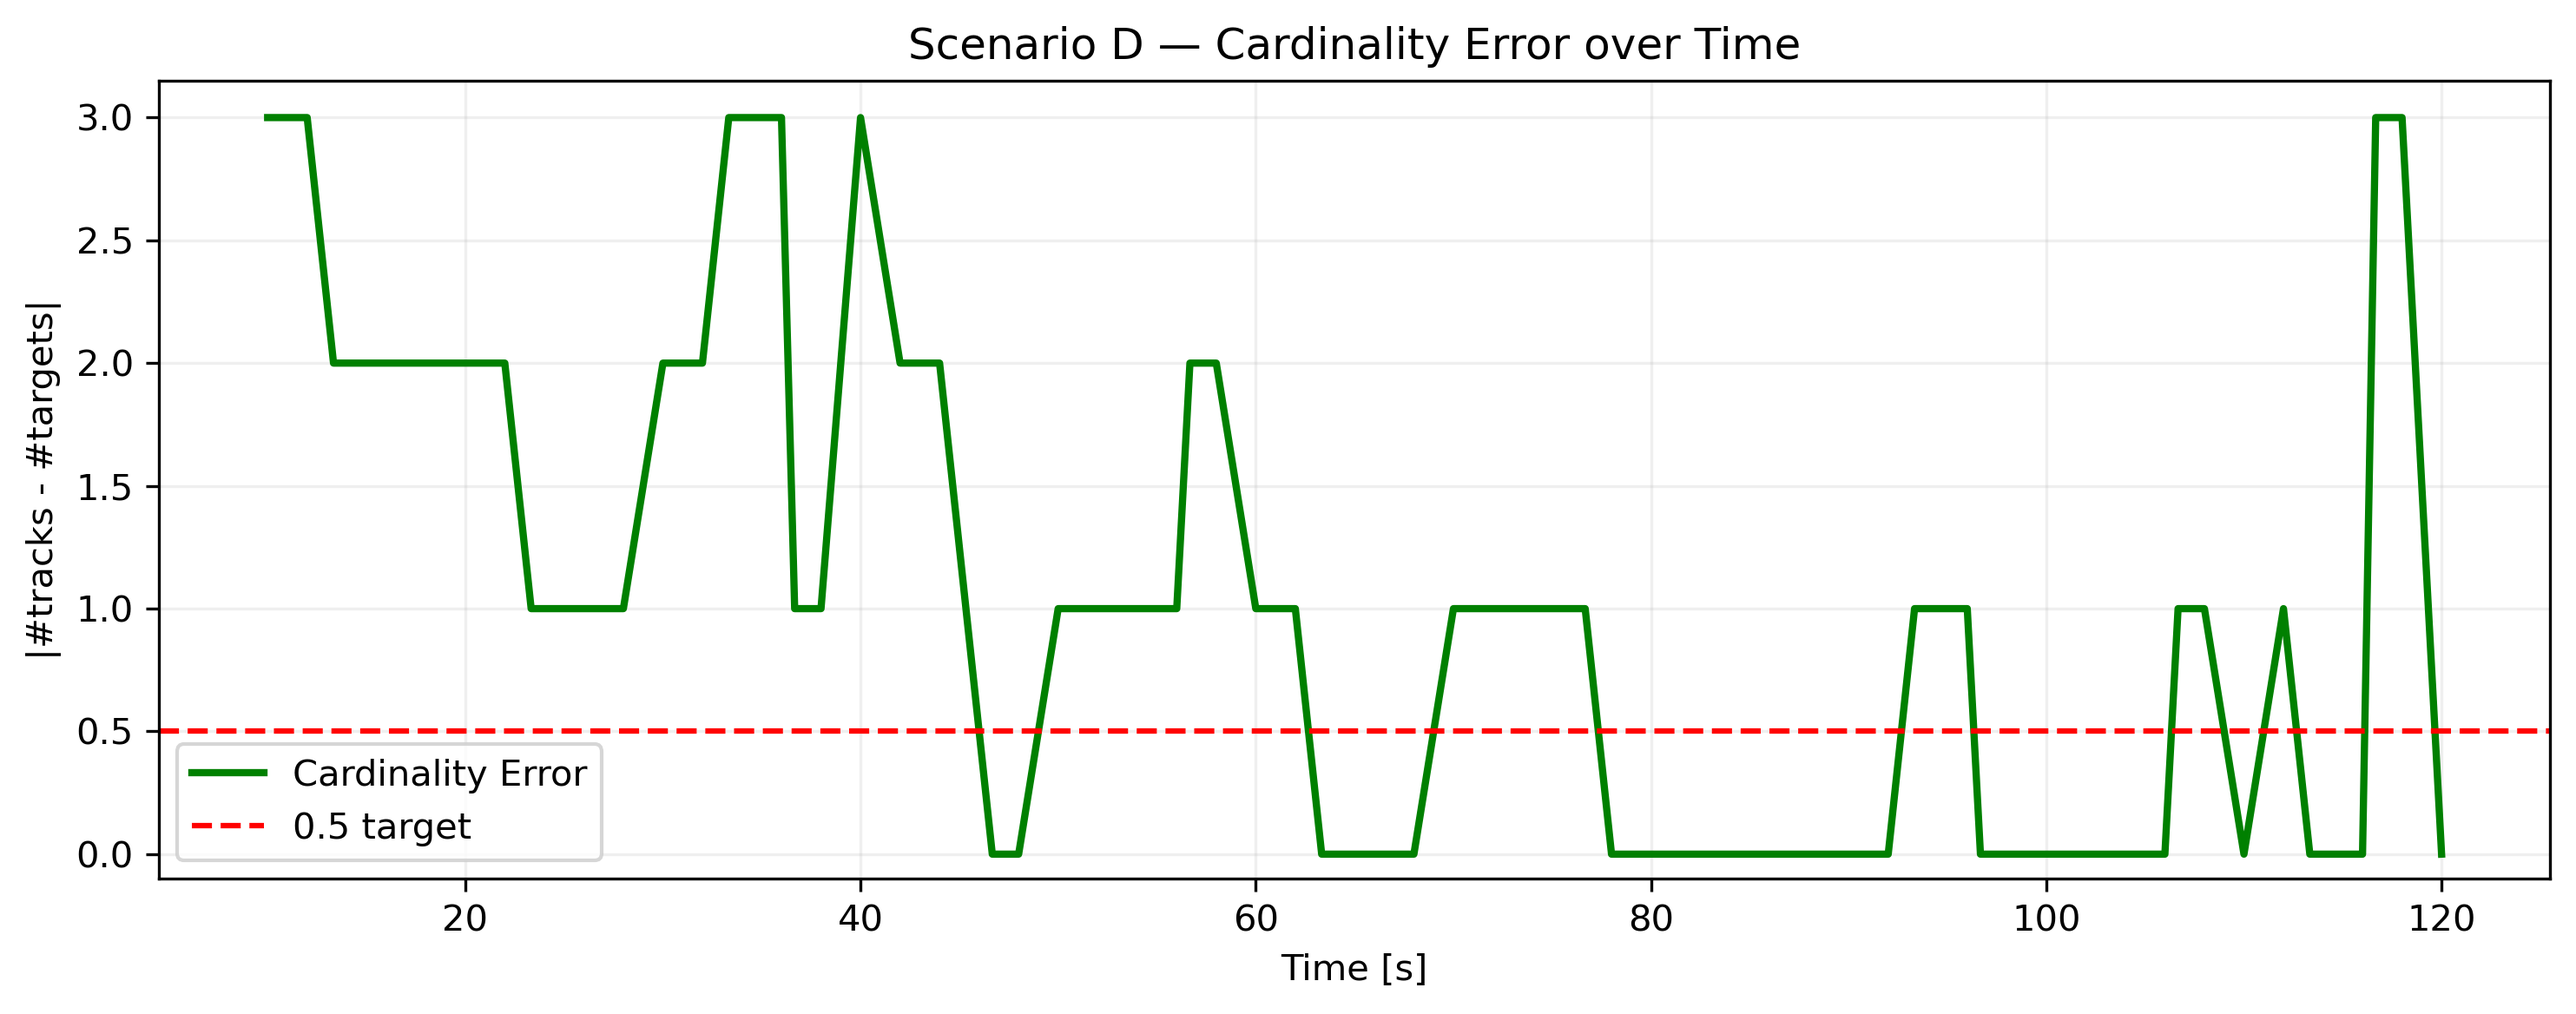
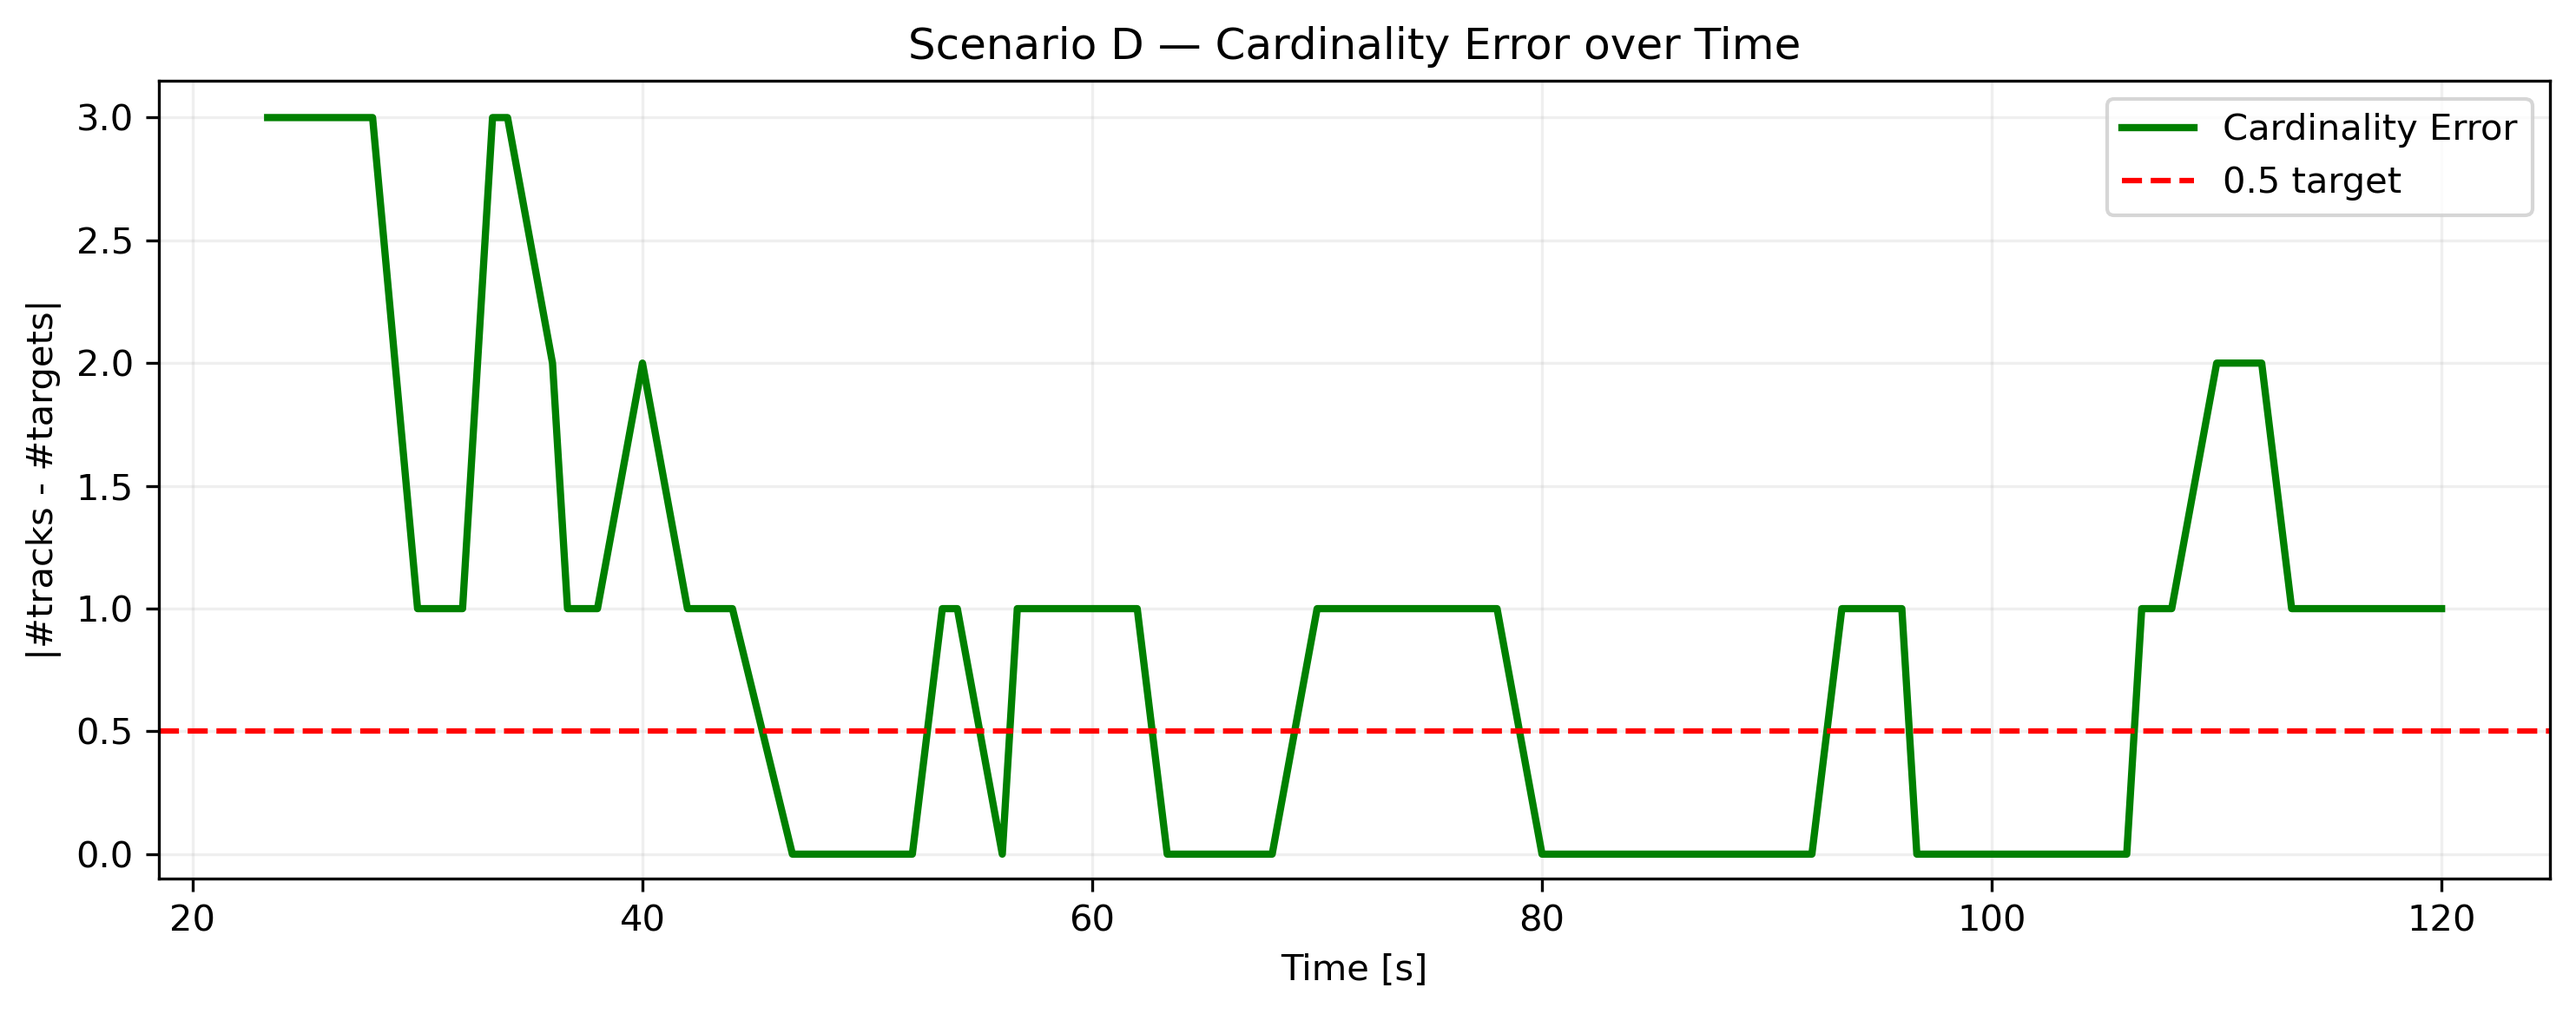
Fixed number of targets and better cardinality error

diff --git a/Code/task6.py b/Code/task6.py
@@ -43,14 +43,14 @@ PLOT_DIR = OUT_DIR / "plots"
 # ---------------------------------------------------------------------------
 # Chi-squared gate thresholds  (degrees of freedom = measurement dimension)
 # P_G = 0.99  =>  chi2.ppf(0.99, df)
-GATE_RADAR  = float(chi2.ppf(0.99, df=2))   # 9.210  (range + bearing)
+GATE_RADAR = float(chi2.ppf(0.95, df=2))   
 GATE_CAMERA = float(chi2.ppf(0.99, df=1))   # 6.635  (bearing only)
 GATE_AIS    = float(chi2.ppf(0.99, df=2))   # 9.210  (range + bearing)
 
 # Track management thresholds
-M_CONFIRM  = 3    # hits needed in a window of N scans to confirm
+M_CONFIRM  = 4    # hits needed in a window of N scans to confirm
 N_CONFIRM  = 5    # sliding window length
-K_DELETE   = 5    # consecutive missed detections before deleting a track
+K_DELETE   = 3    # consecutive missed detections before deleting a track
 
 # Cost matrix sentinel for "outside gate" (must be larger than any real cost)
 LARGE_COST = 1e9
@@ -98,7 +98,7 @@ class Track:
     _id_counter = 0
 
     def __init__(self, x0: np.ndarray, P0: np.ndarray, cfm: CoordinateFrameManager,
-                 sigma_a: float = 0.1, born_at: float = 0.0):
+                 sigma_a: float = 0.15, born_at: float = 0.0):
         Track._id_counter += 1
         self.id = Track._id_counter
         self.state = TENTATIVE
